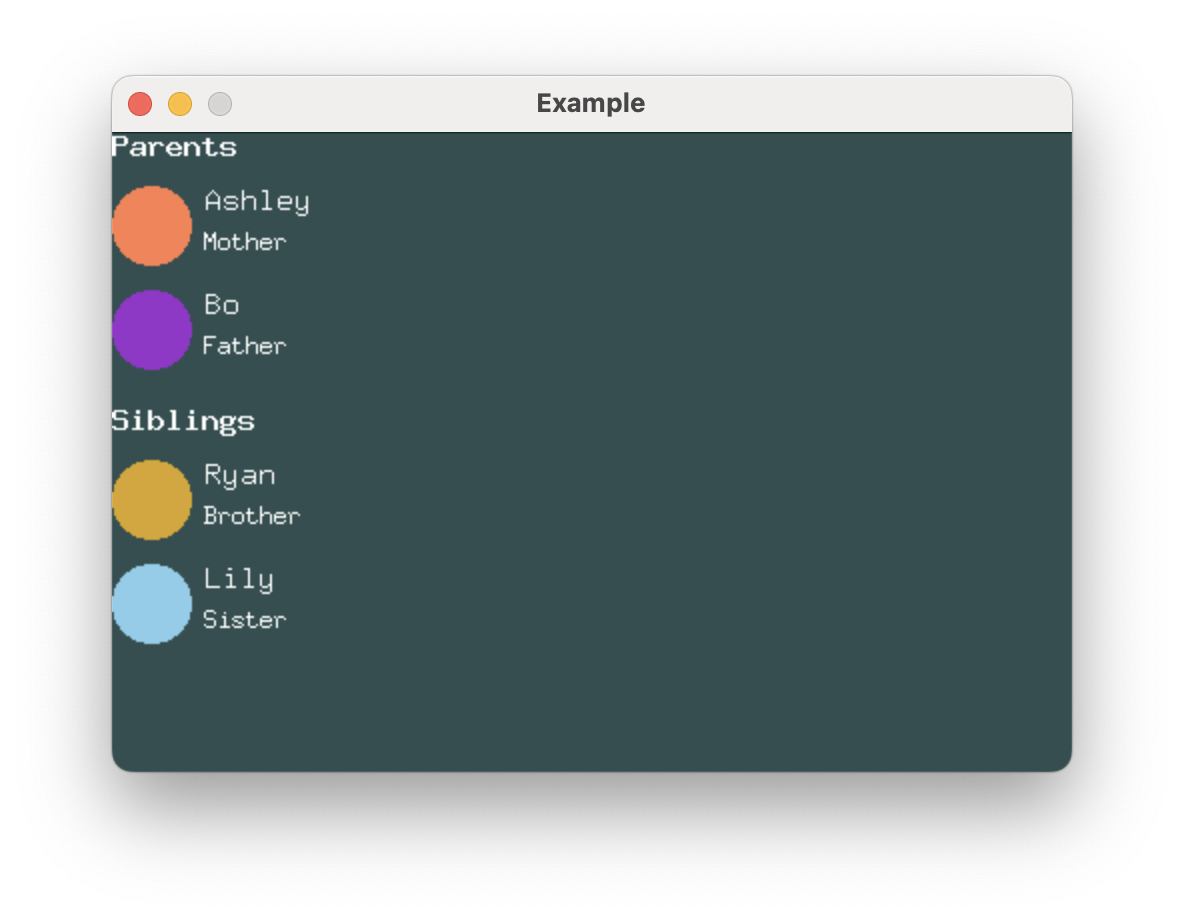
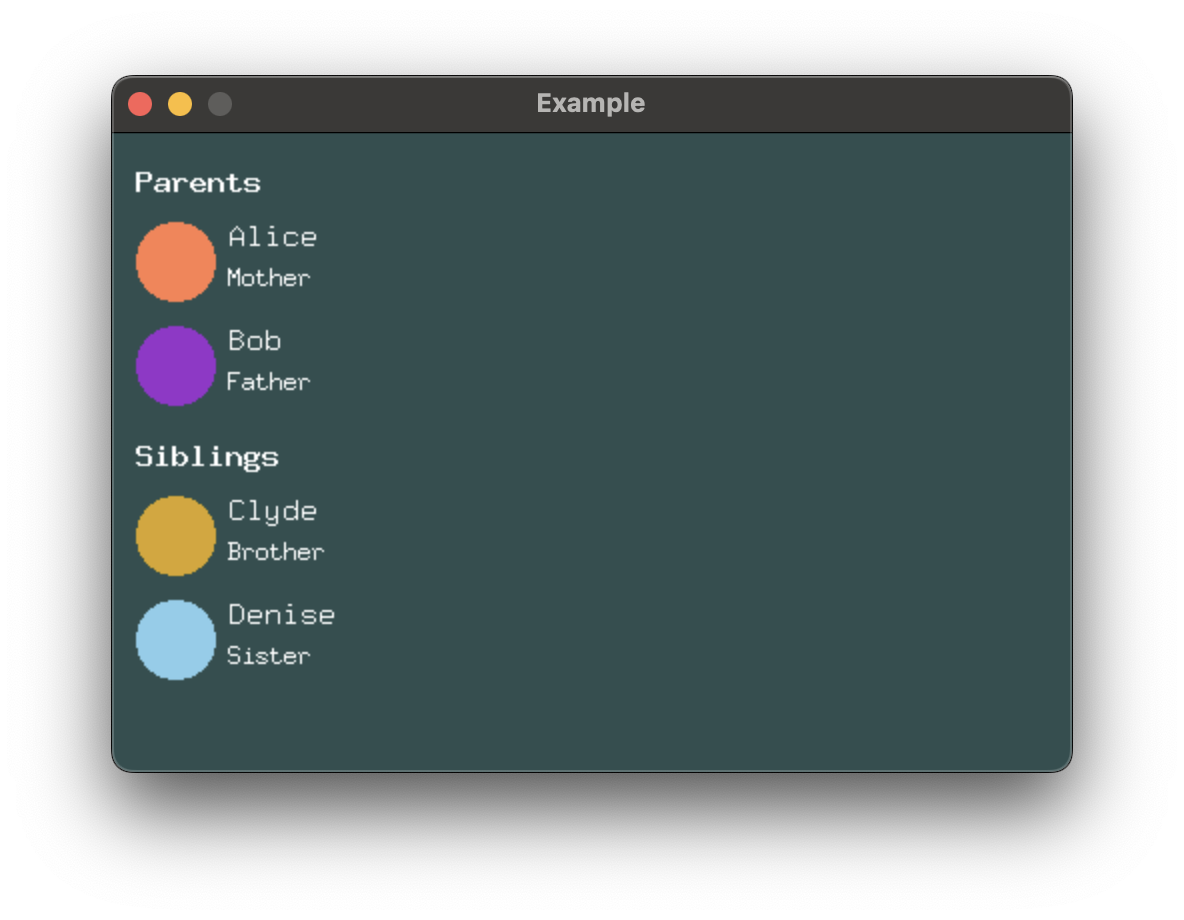
Tweaks to examples (#40)

Changed region(s): [[0.0625, 0.0609, 0.9375, 0.913]]

diff --git a/docs/book/src/building-views/stack-spacing.md b/docs/book/src/building-views/stack-spacing.md
@@ -100,6 +100,7 @@ incrementally larger values for each class of separation.
 # }
 # 
 use buoyant::layout::{HorizontalAlignment, VerticalAlignment};
+use buoyant::view::padding::Edges;
 use buoyant::view::shape::Circle;
 use buoyant::view::{HStack, Text, VStack};
 use buoyant::view::{LayoutExtensions as _, RenderExtensions as _};
@@ -108,7 +109,6 @@ use embedded_graphics::{
     pixelcolor::Rgb888,
     prelude::*,
 };
-
 
 mod spacing {
     pub const ELEMENT: u16 = 6;
@@ -120,23 +120,24 @@ fn view() -> impl Renderable<Rgb888, Renderables: EmbeddedGraphicsRender<Rgb888>
     VStack::new((
         VStack::new((
             Text::str("Parents", &FONT_9X15_BOLD),
-            contact_row(Rgb888::CSS_CORAL, "Ashley", "Mother"),
-            contact_row(Rgb888::CSS_DARK_ORCHID, "Bo", "Father"),
+            contact_row(Rgb888::CSS_CORAL, "Alice", "Mother"),
+            contact_row(Rgb888::CSS_DARK_ORCHID, "Bob", "Father"),
         ))
         .with_alignment(HorizontalAlignment::Leading)
         .with_spacing(spacing::COMPONENT),
         VStack::new((
             Text::str("Siblings", &FONT_9X15_BOLD),
-            contact_row(Rgb888::CSS_GOLDENROD, "Ryan", "Brother"),
-            contact_row(Rgb888::CSS_SKY_BLUE, "Lily", "Sister"),
+            contact_row(Rgb888::CSS_GOLDENROD, "Clyde", "Brother"),
+            contact_row(Rgb888::CSS_SKY_BLUE, "Denise", "Sister"),
         ))
         .with_alignment(HorizontalAlignment::Leading)
         .with_spacing(spacing::COMPONENT),
     ))
     .with_alignment(HorizontalAlignment::Leading)
     .with_spacing(spacing::SECTION)
+    .padding(Edges::Horizontal, spacing::COMPONENT)
+    .padding(Edges::Vertical, spacing::SECTION)
 }
-
 
 fn contact_row<'a>(
     color: Rgb888,
@@ -175,7 +176,7 @@ text that spans the entire window width. Depending on where the text wraps, you 
 sometimes see the problem.
 
 [^note]: Text rendered with `embedded-graphics` monospace fonts break the "tight frames" rule.
-If you look closely at the second (misaligned) example, you'll see that names which render
-entirely above the baseline (no g, j, p, q, or y) appear to have weird extra spacing underneath
-that doesn't match the other nearby element spacing. This is what you're trying to avoid by
-ensuring your frames are tight to the rendered content.
+If you look closely, you'll see that names which render entirely above the baseline
+(no g, j, p, q, or y) appear to have weird extra spacing underneath that doesn't match the
+other nearby element spacing. This is what you're trying to avoid by ensuring your frames
+are tight to the rendered content.
